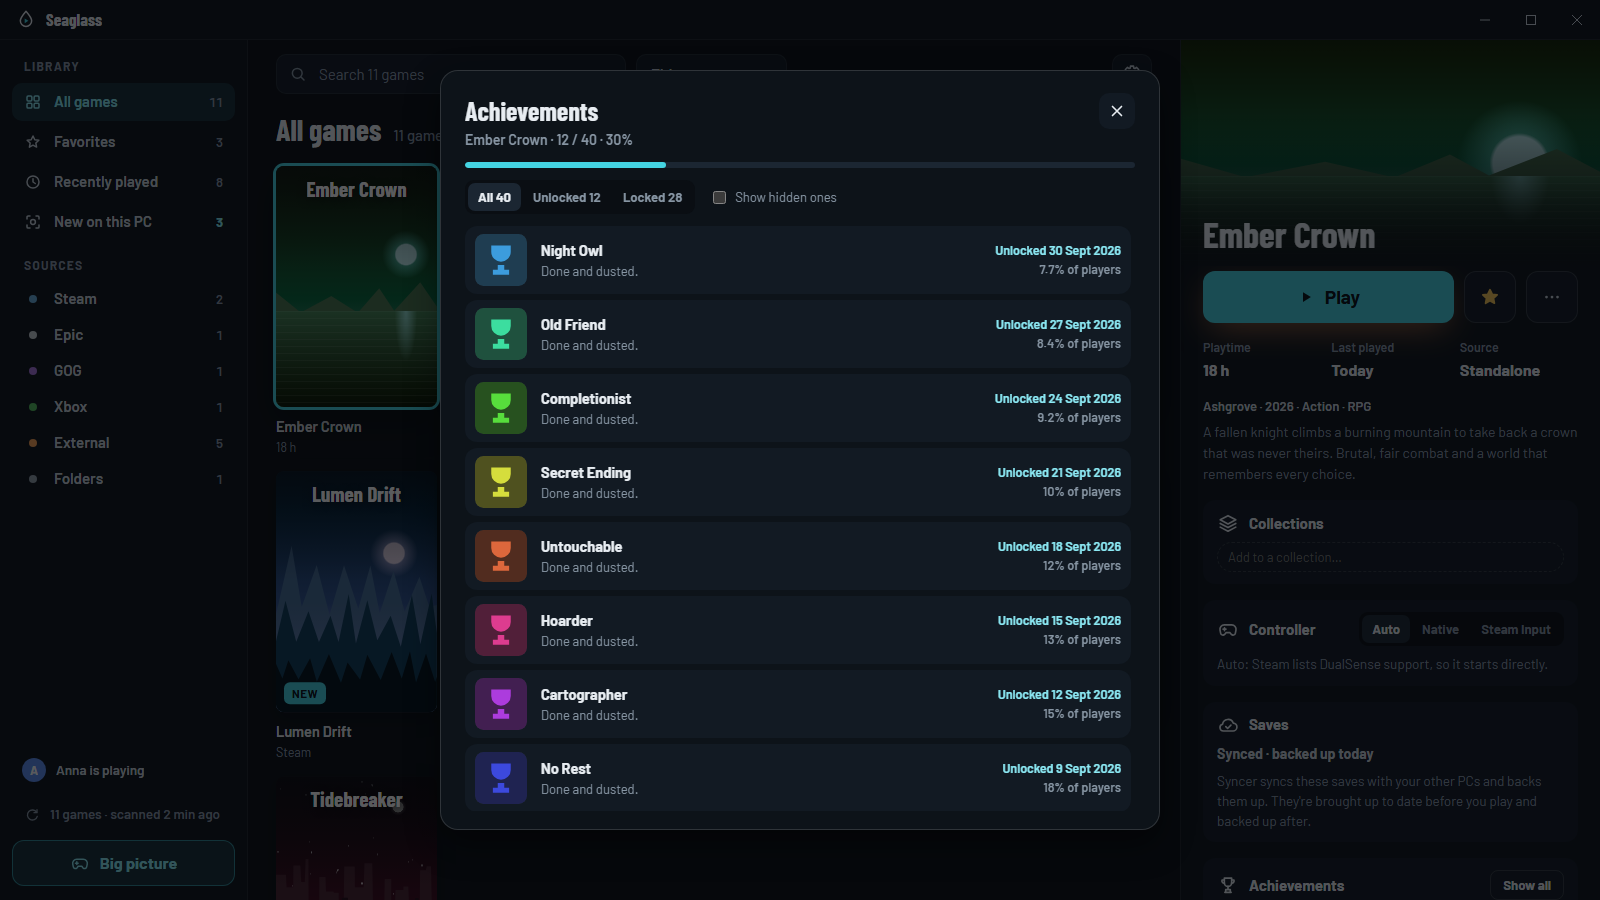
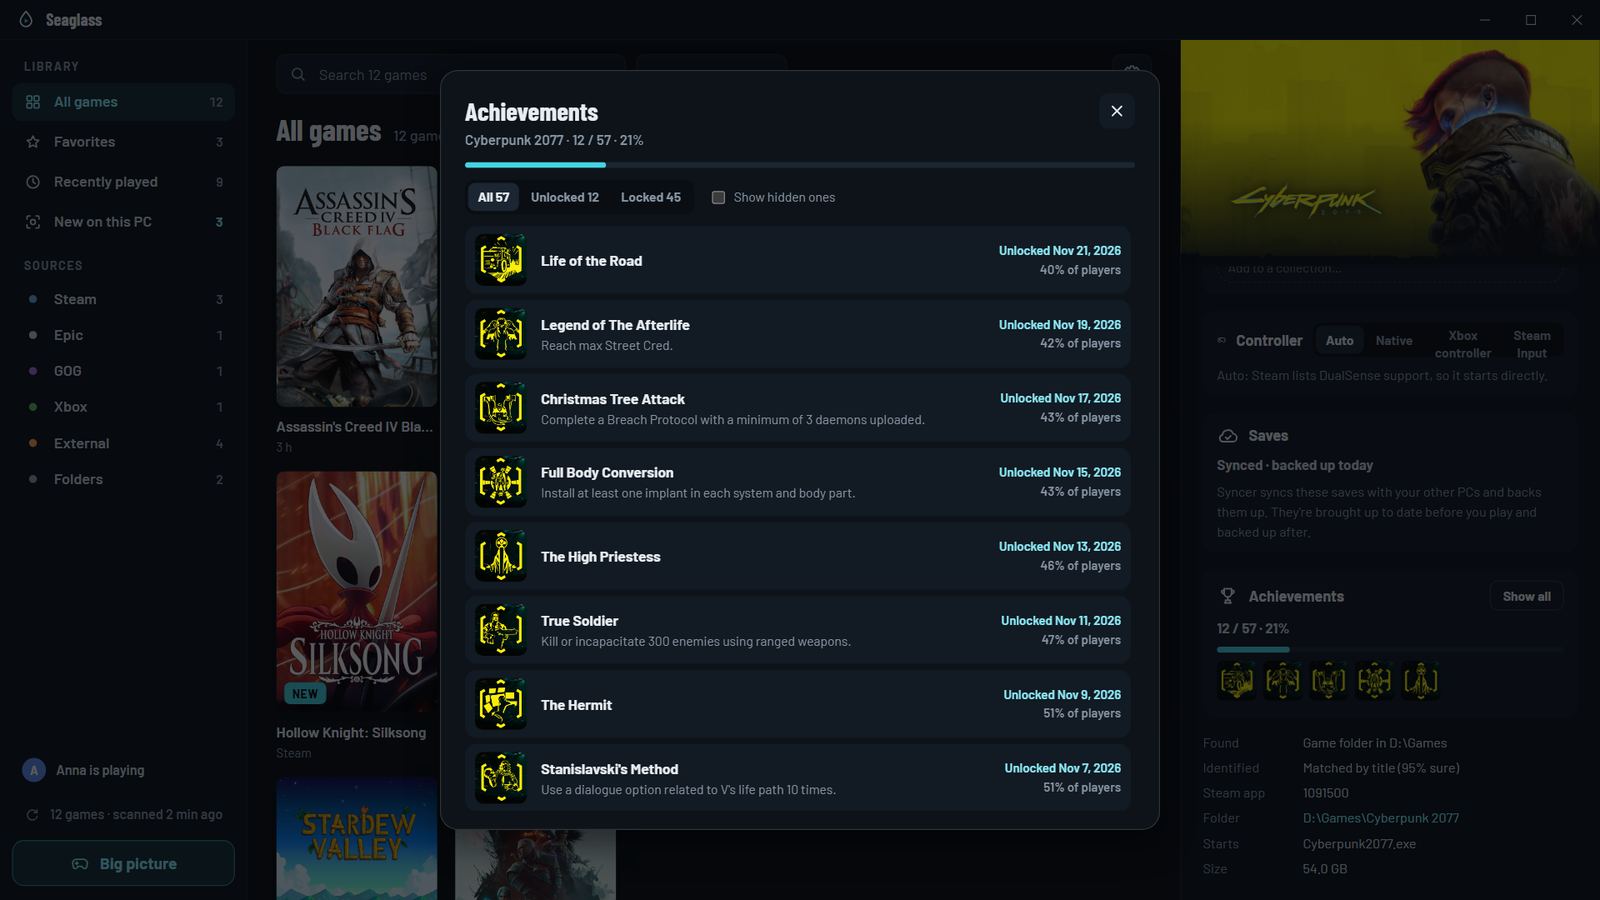
README: real-game screenshots; PRIVACY.md: Xbox controller drivers (#74)
README uses the same real-game screenshots as apps.apollof.nl and describes Seaglass's own Xbox controller instead of Steam Input. PRIVACY.md lists the ViGEmBus/HidHide installer downloads and the HidHide block and allow list changes added in 1.11.

diff --git a/PRIVACY.md b/PRIVACY.md
@@ -1,6 +1,6 @@
 # Privacy
 
-Last updated: 11 October 2026
+Last updated: 21 October 2026
 
 Seaglass is a free Windows game launcher. It runs on your PC and has no server of its own. ApolloF receives no data from the app: no account, no telemetry, no analytics, no automatic crash reports.
 
@@ -33,13 +33,14 @@ Keys and sign-in tokens are stored in `%APPDATA%\Seaglass\secrets`, encrypted wi
 - **Achievements:** for games with achievements, Seaglass fetches names, icons and global unlock rates from Steam, Epic and GOG. With your Steam key, Epic sign-in or GOG sign-in it also reads your own unlocks, sending the key or token with your Steam ID, Epic account ID or GOG user ID.
 - **Game recognition:** it downloads the [Ludusavi manifest](https://github.com/mtkennerly/ludusavi-manifest) from GitHub (raw.githubusercontent.com) when it is missing or more than a week old.
 - **Updates:** with automatic updates on (the default), it checks GitHub for a new Seaglass release at start and downloads it from GitHub. With them off it only checks when you click *Check* in Settings. Installing or updating Syncer from Seaglass checks and downloads from Syncer's GitHub releases.
+- **Xbox controller drivers:** only when you set up *Settings → Xbox controller for games*, Seaglass downloads the ViGEmBus and HidHide installers from their GitHub releases, checks them against hashes pinned in Seaglass and runs them (Windows asks for permission for each).
 - These services see your IP address, as with any web request, and what is being looked up: game names, store IDs and, for the accounts above, your keys, tokens and IDs. Nothing else about you is sent.
 
 All requests use HTTPS and go only to allowlisted hosts. They identify the app as `Seaglass` and carry no install ID, account or machine name of their own.
 
 | Service | Hosts | When |
 |---|---|---|
-| GitHub | `api.github.com`, `github.com`, GitHub's download hosts | Update checks and downloads; installing Syncer |
+| GitHub | `api.github.com`, `github.com`, GitHub's download hosts | Update checks and downloads; installing Syncer or the Xbox controller drivers |
 | GitHub | `raw.githubusercontent.com` | The Ludusavi game database, about once a week |
 | Steam store | `store.steampowered.com`, `*.steamstatic.com`, `steamcdn-a.akamaihd.net` | Details and art for games in your library |
 | Steam Web API | `api.steampowered.com` | Achievement data; with your key, owned games and your unlocks |
@@ -56,7 +57,7 @@ If you use [Syncer](https://apps.apollof.nl/syncer/), Seaglass talks to it on yo
 
 Settings, your library, the profile, the log and crash logs stay in `%APPDATA%\Seaglass`. The log records events such as the titles of games started, play times and errors. Cached art, achievement data, the game database, update downloads and the data of the WebView2 component that draws Seaglass's window stay in `%LOCALAPPDATA%\Seaglass`. WebView2 is a Microsoft component; its own data handling follows Microsoft's and Windows' privacy settings, not Seaglass. Seaglass's interface loads no remote code (it has a strict Content Security Policy).
 
-Outside those folders Seaglass writes only when you turn the feature on: a value under `HKCU\Software\Microsoft\Windows\CurrentVersion\Run` for *Start with Windows*, and Seaglass shortcuts in Steam's `shortcuts.vdf` for the Steam Input route for controllers. It reads, but doesn't change, the store launchers' own files and registry entries.
+Outside those folders Seaglass writes only when you turn the feature on: a value under `HKCU\Software\Microsoft\Windows\CurrentVersion\Run` for *Start with Windows*, and Seaglass shortcuts in Steam's `shortcuts.vdf` for the Steam Input route for controllers. With HidHide installed, Seaglass adds your controller to HidHide's block list while a game runs and adds itself to HidHide's allow list; it notes the controllers it hid in `%APPDATA%\Seaglass\hidden-controllers.json` and takes exactly those off again when the game ends. It reads, but doesn't change, the store launchers' own files and registry entries.
 
 *Copy diagnostics* (or `Seaglass.exe --diagnostics`, which writes a file to your desktop) creates a report only when you ask for it. It holds Seaglass, Windows and WebView2 versions, your settings (including game folders), library counts, the last crash and the end of the log. It holds no keys or tokens, and your user folder is shortened to `%USERPROFILE%`. It goes only where you paste or send it.
 

diff --git a/README.md b/README.md
@@ -21,7 +21,7 @@
 - Finds Steam, Epic, GOG, EA, Ubisoft, Battle.net and Xbox installs, plus games installed outside a store launcher (*external copies*, such as standalone and DRM-free installs and backups) and plain game folders, and works out which game each one is.
 - Desktop mode for mouse and keyboard, and a big picture mode for controllers with three layouts to choose from (Deck, Console, Orbit).
 - Starts games and tracks playtime. While you play, the interface closes to free memory, and the PS button opens an overlay over the game.
-- DualSense first: native button glyphs, haptics, lightbar, and the PS button to open the launcher. Games without DualSense support start through Steam Input automatically.
+- DualSense first: native button glyphs, haptics, lightbar, and the PS button to open the launcher. Games without DualSense support get a virtual Xbox controller from Seaglass itself, no Steam needed (*Settings → Xbox controller for games*); Steam Input stays available per game.
 - Works with [Syncer](https://github.com/ApolloF/syncer) to keep saves in sync before and after you play. *Settings → Saves* installs Syncer with one click.
 - Hide whole libraries you don't want to see (*Settings → Library*), for example Xbox or external copies.
 
@@ -29,7 +29,7 @@
 |---|---|
 | <img src="docs/images/seaglass-desktop.png" alt="Desktop mode: game grid, sources in the sidebar and a details panel with Play, playtime, controller mode and save status"> | <img src="docs/images/seaglass-achievements.png" alt="Achievements dialog with unlock dates and rarity"> |
 
-<sub>Screenshots use the demo library (`npm run dev:mock`), so the games and art are made up.</sub>
+<sub>Screenshots use the demo library (`npm run dev:mock`) with real games: the art, details and achievements are what Seaglass fetches for them; playtimes and progress are made up.</sub>
 
 ## Why
 
